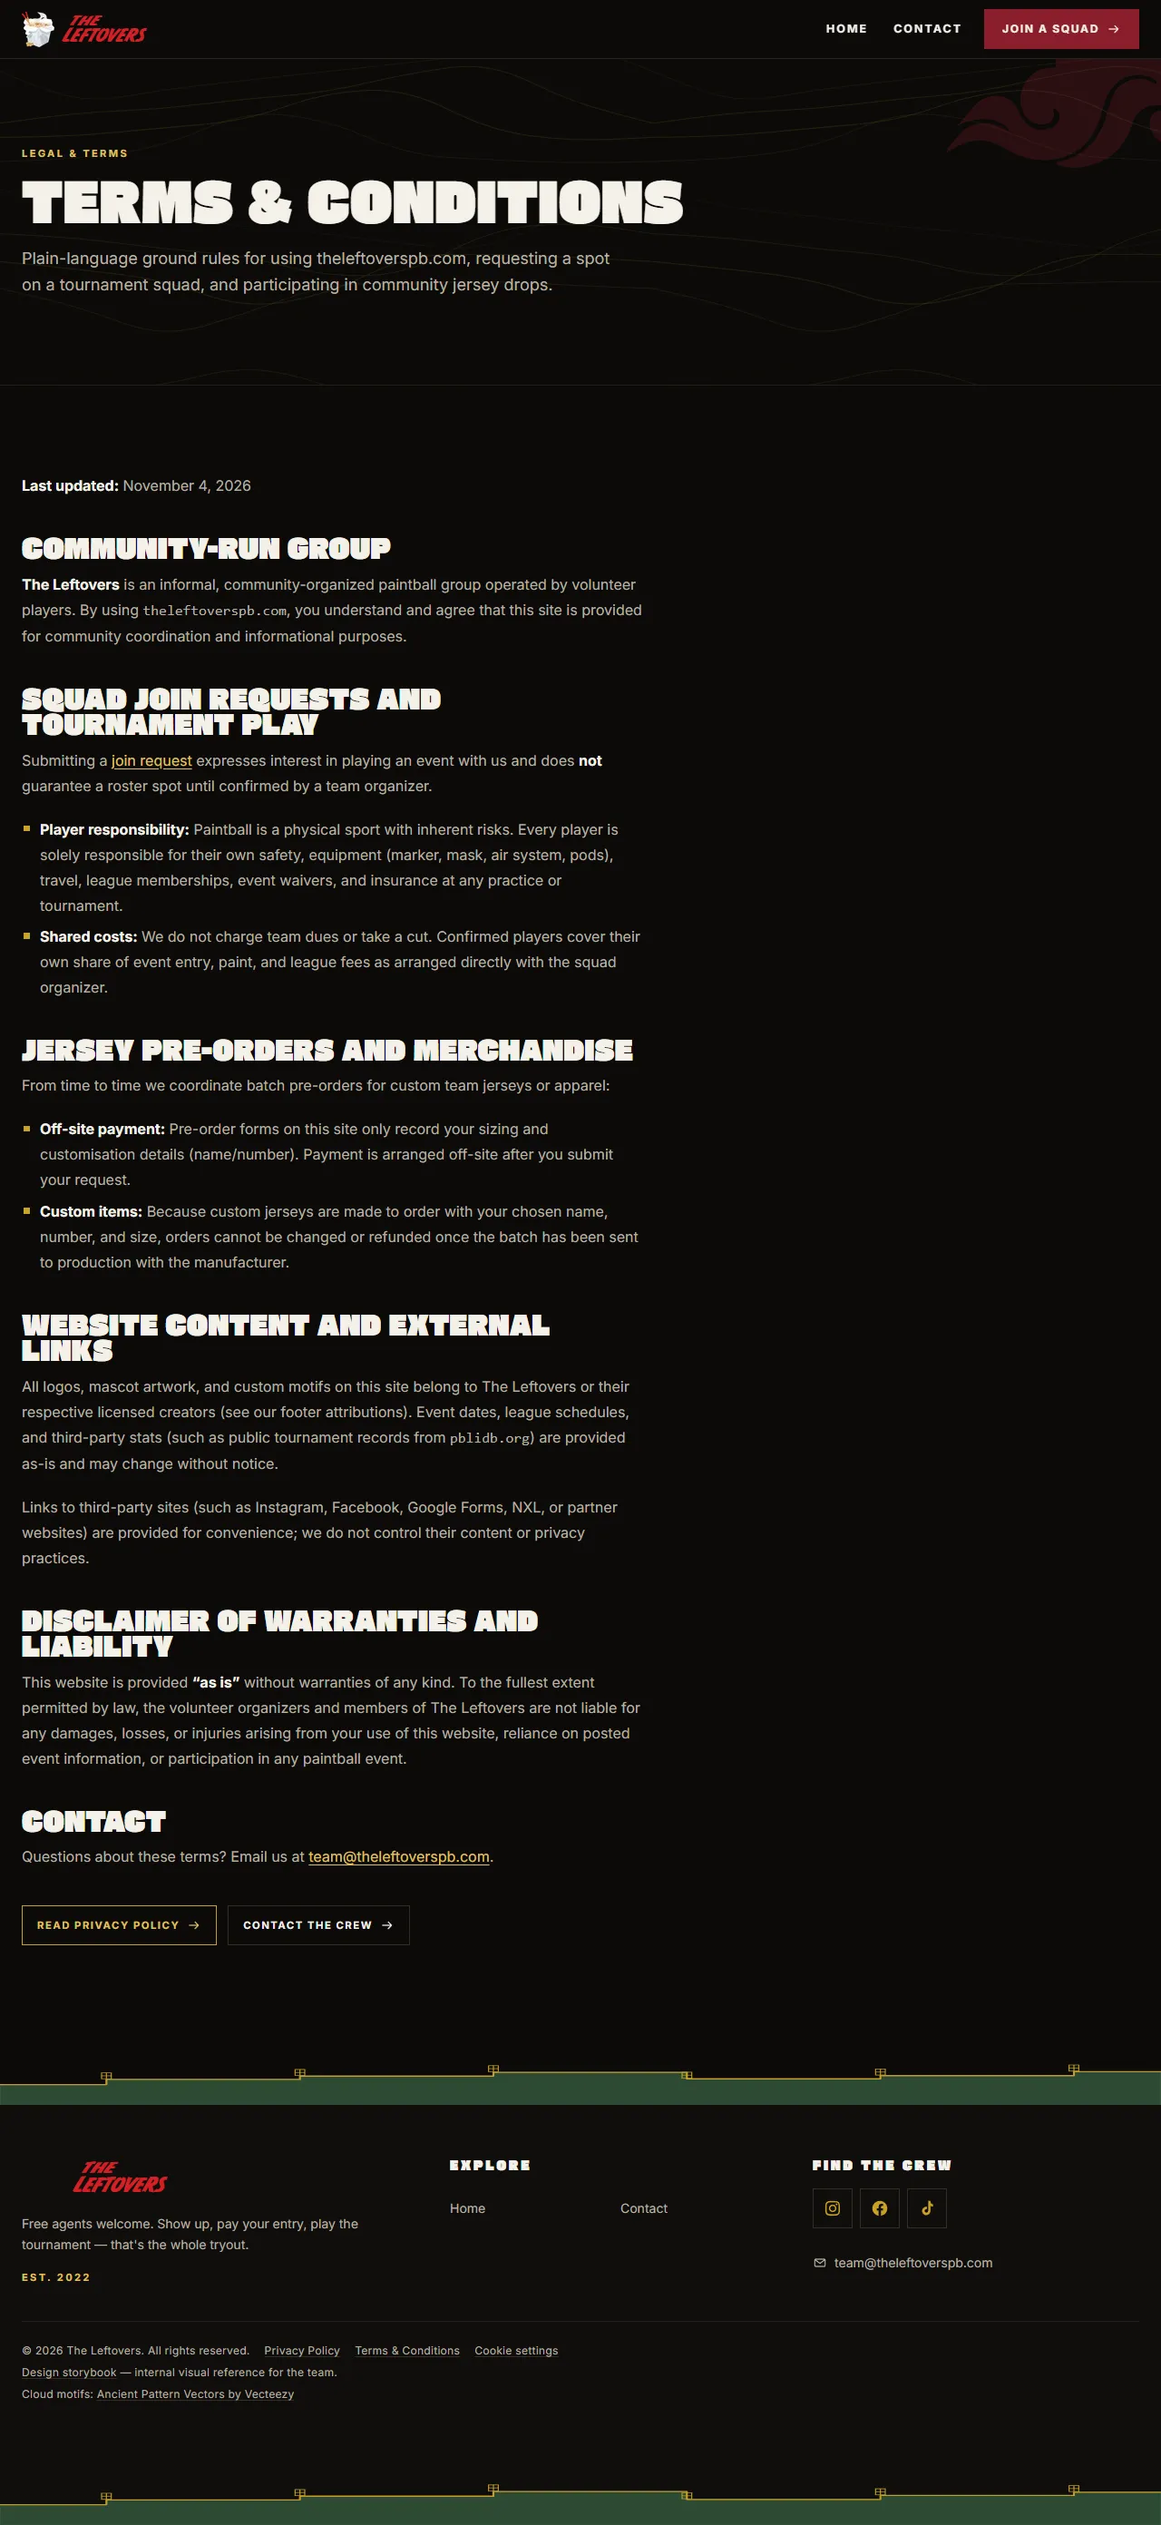
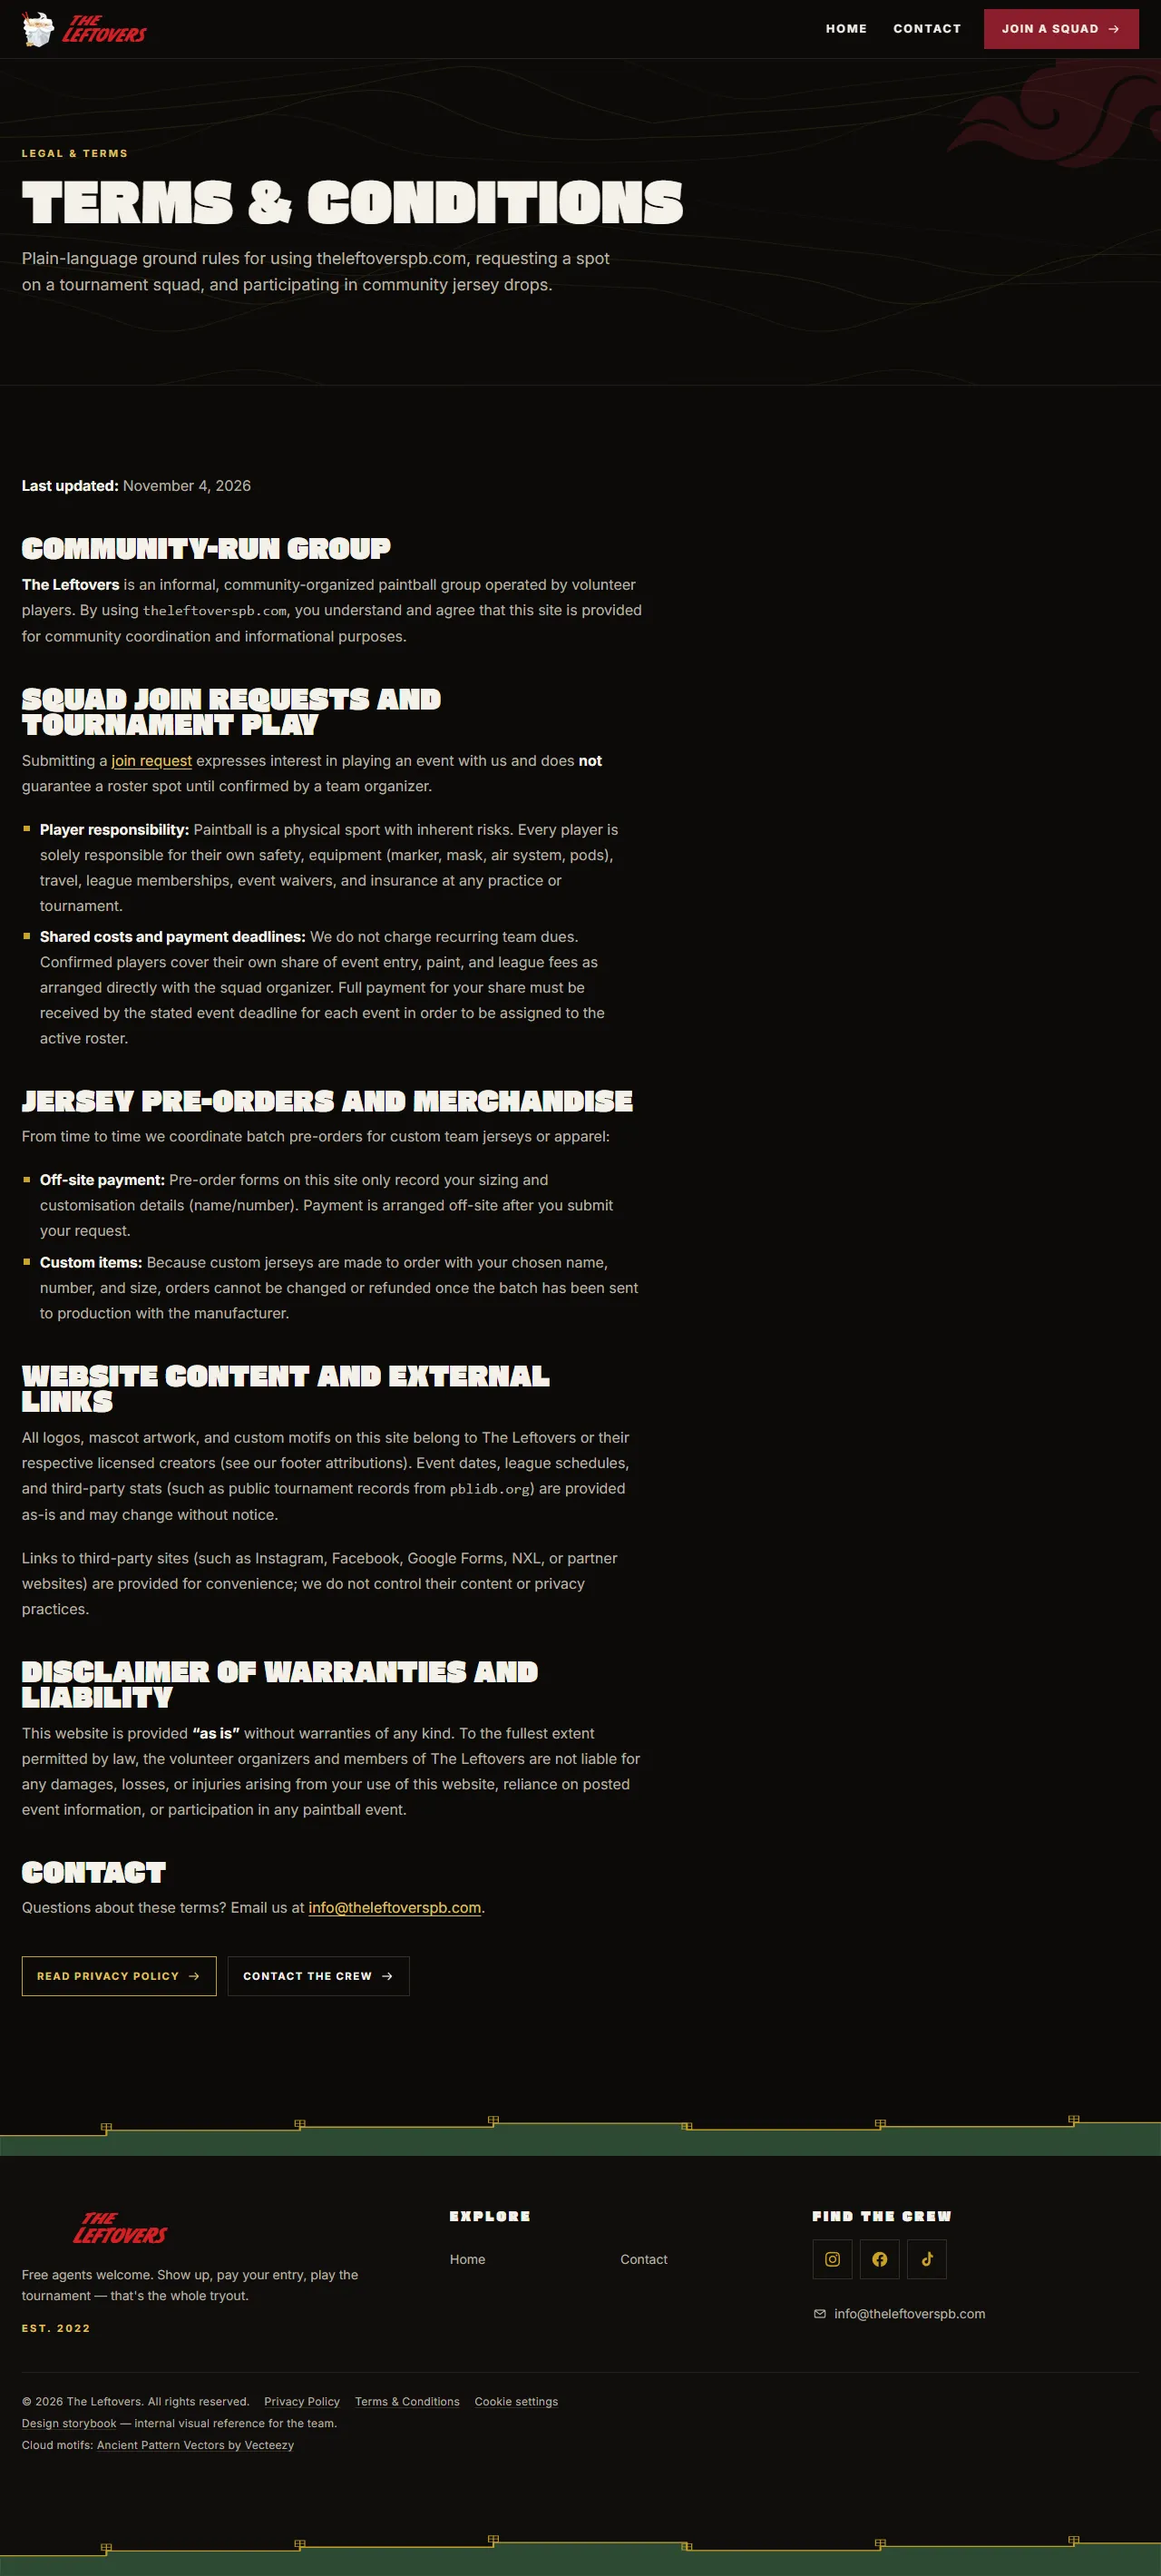
Update contact email to info@theleftoverspb.com and refine shared costs terms

diff --git a/src/content/pages/terms.md b/src/content/pages/terms.md
@@ -30,9 +30,11 @@ organizer.
   Every player is solely responsible for their own safety, equipment (marker,
   mask, air system, pods), travel, league memberships, event waivers, and
   insurance at any practice or tournament.
-- **Shared costs:** We do not charge team dues or take a cut. Confirmed players
-  cover their own share of event entry, paint, and league fees as arranged
-  directly with the squad organizer.
+- **Shared costs and payment deadlines:** We do not charge recurring team dues.
+  Confirmed players cover their own share of event entry, paint, and league fees
+  as arranged directly with the squad organizer. Full payment for your share
+  must be received by the stated event deadline for each event in order to be
+  assigned to the active roster.
 
 ## Jersey pre-orders and merchandise
 
@@ -68,4 +70,4 @@ any paintball event.
 ## Contact
 
 Questions about these terms? Email us at
-[team@theleftoverspb.com](mailto:team@theleftoverspb.com).
+[info@theleftoverspb.com](mailto:info@theleftoverspb.com).

diff --git a/src/content/pages/privacy.md b/src/content/pages/privacy.md
@@ -22,7 +22,7 @@ corporation or commercial storefront; we run this website so players can find
 upcoming events, request to join a squad, and coordinate batch team jerseys.
 
 For any privacy questions or data requests, email us directly at
-[team@theleftoverspb.com](mailto:team@theleftoverspb.com).
+[info@theleftoverspb.com](mailto:info@theleftoverspb.com).
 
 ## Analytics and cookies (EU & US compliance)
 
@@ -77,5 +77,5 @@ honour rights under the EU/UK GDPR and applicable US state privacy laws:
   **Cookie settings** in the footer.
 - **Access, correction, or deletion:** If you submitted a join request or
   pre-order form and want to see, update, or delete your entry from our Google
-  Sheet, email [team@theleftoverspb.com](mailto:team@theleftoverspb.com) and we
+  Sheet, email [info@theleftoverspb.com](mailto:info@theleftoverspb.com) and we
   will remove it promptly.
